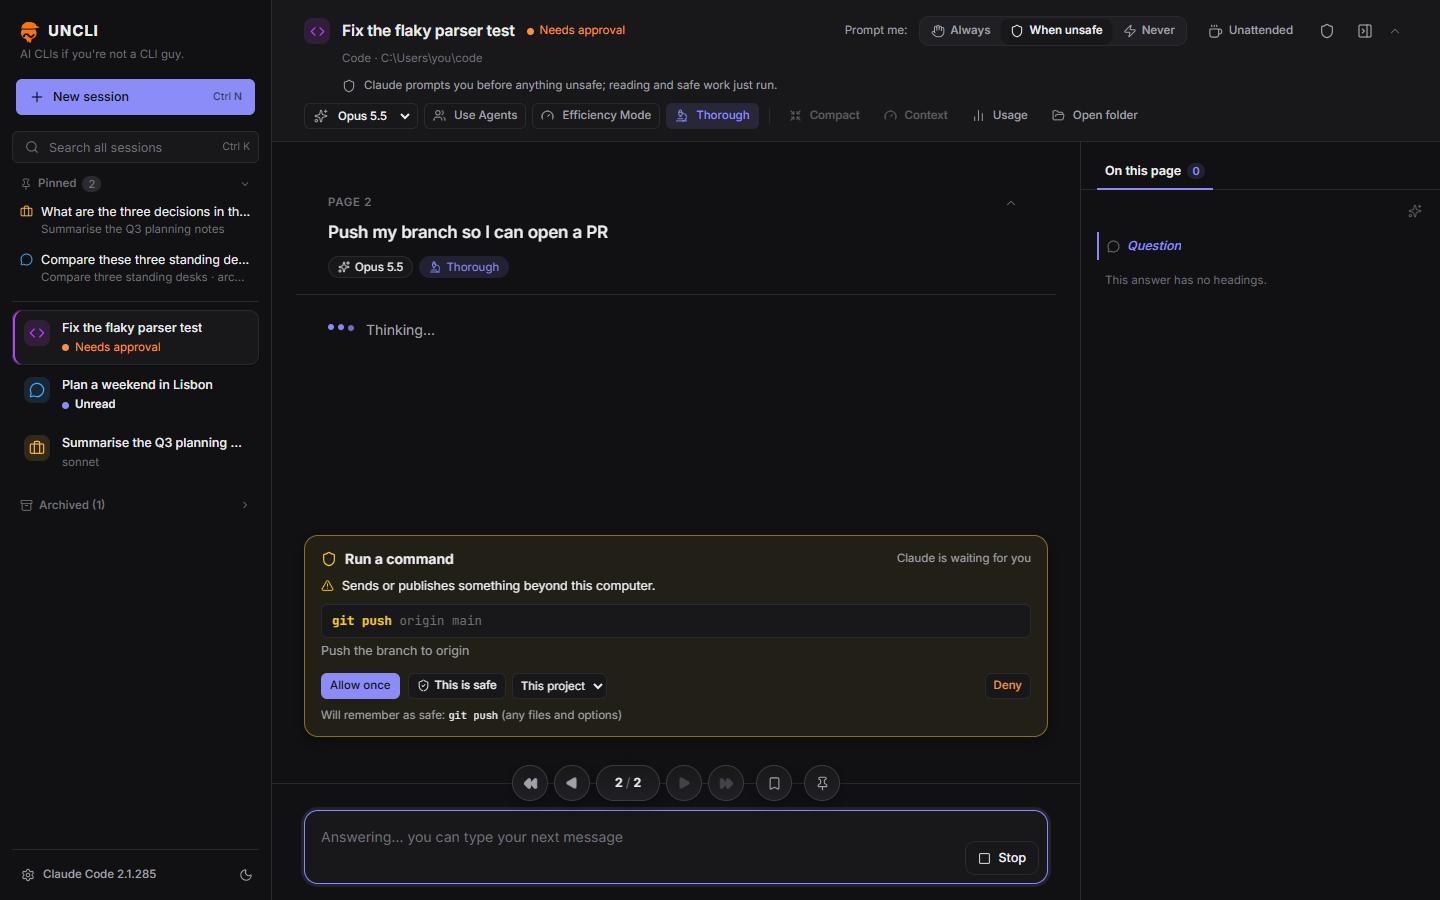
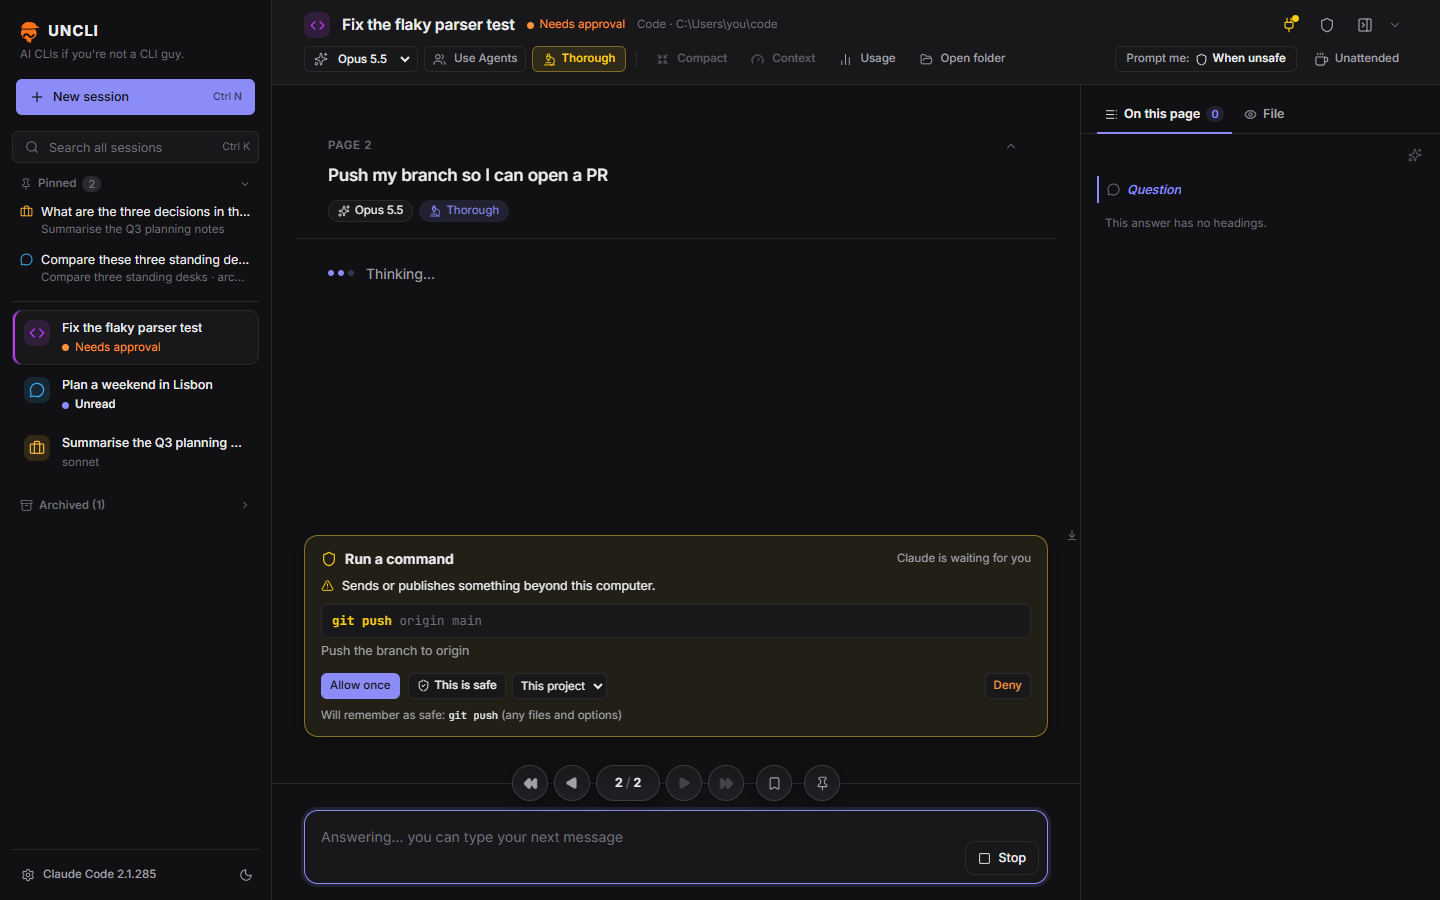
chore: release prep for 0.2.0-alpha: CHANGELOG section, website refreshed (new screenshots of the current header, File tab and MCP sign-in shots, cards for watching a file, MCP sign-in and answering questions) / fix: quitting UNCLI stops quick tasks in flight (safety judgements, summaries) instead o

diff --git a/website/index.html b/website/index.html
@@ -84,6 +84,18 @@
       <symbol id="i-bookmark" viewBox="0 0 24 24">
         <path d="M6.5 3.5h11v17L12 16.5l-5.5 4Z" />
       </symbol>
+      <symbol id="i-eye" viewBox="0 0 24 24">
+        <path d="M2.5 12S6 5.5 12 5.5 21.5 12 21.5 12 18 18.5 12 18.5 2.5 12 2.5 12Z" />
+        <circle cx="12" cy="12" r="3" />
+      </symbol>
+      <symbol id="i-key" viewBox="0 0 24 24">
+        <circle cx="8" cy="15" r="4" />
+        <path d="m11 12 8.5-8.5M16 7l2.5 2.5M14 9l2 2" />
+      </symbol>
+      <symbol id="i-slash" viewBox="0 0 24 24">
+        <rect x="3.5" y="4" width="17" height="16" rx="2" />
+        <path d="m10 16 4-8" />
+      </symbol>
       <symbol id="i-arrow" viewBox="0 0 24 24">
         <path d="M4 12h16m-6-6 6 6-6 6" />
       </symbol>
@@ -151,7 +163,7 @@
         <div class="shot-glow"></div>
         <figure class="shot shot-hero">
           <img src="images/shot-session.png"
-            alt="A Code session in UNCLI: the question as the page title, the answer with a code block, the model and modifiers in the toolbar, and the other sessions on the left."
+            alt="A Code session in UNCLI: the question as the page title, the answer with a code block, the model, answer length and prompt level in the toolbar, a TODO file watched live on the right, and the other sessions on the left."
             width="1440" height="900" loading="eager" decoding="async" />
         </figure>
       </div>
@@ -258,8 +270,8 @@
             <use href="#i-sliders" />
           </svg>
           <h3>Switch with a click</h3>
-          <p>Change model mid-conversation, turn on Efficiency Mode or Thorough, compact the context. No slash
-            commands to remember.</p>
+          <p>Change model mid-conversation, make answers Efficient or Thorough, compact the context. One click
+            each, coloured by what it costs.</p>
         </article>
         <article class="card reveal">
           <svg class="ico">
@@ -276,6 +288,30 @@
           <h3>Bring your old chats</h3>
           <p>Import a conversation you started in the terminal and carry on in UNCLI. Ctrl+Shift+P finds anything
             else; ? lists every shortcut.</p>
+        </article>
+        <article class="card reveal">
+          <svg class="ico">
+            <use href="#i-eye" />
+          </svg>
+          <h3>Watch a file</h3>
+          <p>Keep a file from the session's folder open beside the answer, say the TODO the agent is working
+            through, and watch it update as it changes. Type "todo" and the latest one is on top.</p>
+        </article>
+        <article class="card reveal">
+          <svg class="ico">
+            <use href="#i-key" />
+          </svg>
+          <h3>Sign in to your tools</h3>
+          <p>An MCP server that needs signing in says so. One click opens its sign-in in your browser, and its
+            tools arrive without a restart, in your other sessions too. Chats can use them as well.</p>
+        </article>
+        <article class="card reveal">
+          <svg class="ico">
+            <use href="#i-slash" />
+          </svg>
+          <h3>Questions get answers</h3>
+          <p>Type / for the CLI's commands. When the agent asks you something or shows a plan, you answer on a card,
+            with its options, your own words, or a note on what to change.</p>
         </article>
       </div>
     </section>
@@ -363,6 +399,18 @@
             alt="An approval card for git push in a Code session, with Allow once, This is safe and Deny." width="1440"
             height="900" loading="lazy" decoding="async" />
           <figcaption>An approval, mid-answer. The session in the sidebar says it needs you.</figcaption>
+        </figure>
+        <figure class="shot reveal">
+          <img src="images/shot-file.png"
+            alt="The File tab beside the answer, showing TODO.md with its checkboxes, and the file finder open with a search for todo."
+            width="1440" height="900" loading="lazy" decoding="async" />
+          <figcaption>Watching TODO.md beside the answer. Type part of a name: the latest changed comes first.</figcaption>
+        </figure>
+        <figure class="shot reveal">
+          <img src="images/shot-mcp.png"
+            alt="MCP servers that need signing in, listed under the header with Sign in buttons, and the servers list open with each one's status."
+            width="1440" height="900" loading="lazy" decoding="async" />
+          <figcaption>MCP servers that need you, and every server's status, a click from signed in.</figcaption>
         </figure>
         <figure class="shot reveal">
           <img src="images/shot-usage.png"

diff --git a/app/internal/bridge/bridge.go b/app/internal/bridge/bridge.go
@@ -5,7 +5,11 @@ package bridge
 
 import (
 	"context"
+	"crypto/sha256"
+	"encoding/hex"
 	"io/fs"
+	"os"
+	"path/filepath"
 	"strings"
 	"sync"
 	"time"
@@ -94,7 +98,7 @@ func Run(assets fs.FS) error {
 		AssetServer:      &assetserver.Options{Assets: assets},
 		BackgroundColour: &options.RGBA{R: 250, G: 250, B: 249, A: 255},
 		SingleInstanceLock: &options.SingleInstanceLock{
-			UniqueId: "app.uncli.desktop",
+			UniqueId: instanceID(os.Getenv("UNCLI_DATA_DIR")),
 			OnSecondInstanceLaunch: func(options.SecondInstanceData) {
 				if a.ctx != nil {
 					raise(a.ctx)
@@ -527,4 +531,16 @@ func (a *App) OpenURL(url string) {
 	if strings.HasPrefix(url, "https://") || strings.HasPrefix(url, "http://") {
 		wruntime.BrowserOpenURL(a.ctx, url)
 	}
+}
+
+// instanceID is the single-instance lock's id: one UNCLI per data folder.
+// A copy run on a data folder of its own (UNCLI_DATA_DIR: tests, wails
+// dev) gets its own lock, so it starts alongside the user's app instead of
+// handing over to it and quitting.
+func instanceID(dataDir string) string {
+	if dataDir == "" {
+		return "app.uncli.desktop"
+	}
+	sum := sha256.Sum256([]byte(strings.ToLower(filepath.Clean(dataDir))))
+	return "app.uncli.desktop." + hex.EncodeToString(sum[:6])
 }

diff --git a/app/internal/app/service.go b/app/internal/app/service.go
@@ -83,6 +83,11 @@ func DefaultPaths() (Paths, error) {
 }
 
 type Service struct {
+	// life ends when the service closes: work it started on its own (quick
+	// tasks: safety judgements, summaries) stops with it, not after.
+	life    context.Context
+	endLife context.CancelFunc
+
 	Paths     Paths
 	Store     *store.Store
 	Profiles  *profile.Set
@@ -133,6 +138,7 @@ func New(paths Paths, emit Emitter) (*Service, error) {
 	}
 	inst := claude.NewInstaller(filepath.Join(paths.Cache, "cli", "claude"))
 	s := &Service{Paths: paths, Store: db, Profiles: set, Installer: inst, Adapter: claude.New(inst).WithSkills(filepath.Join(paths.Cache, "skills", "claude")), emit: emit}
+	s.life, s.endLife = context.WithCancel(context.Background())
 	agyInst := antigravity.NewInstaller(filepath.Join(paths.Cache, "cli", "antigravity"))
 	agy := antigravity.New(agyInst, filepath.Join(paths.Config, "agy"), hookCommand())
 	s.clis = []*cliProvider{
@@ -177,6 +183,7 @@ func New(paths Paths, emit Emitter) (*Service, error) {
 }
 
 func (s *Service) Close() {
+	s.endLife()
 	s.CancelSignIn()
 	s.signInMu.Lock()
 	for id := range s.devices {

diff --git a/app/internal/bridge/instance_test.go b/app/internal/bridge/instance_test.go
@@ -1,0 +1,18 @@
+package bridge
+
+import "testing"
+
+// One UNCLI per data folder: the user's app keeps the plain id, and a copy
+// on a folder of its own gets an id of its own, the same for the same folder.
+func TestInstanceID(t *testing.T) {
+	if got := instanceID(""); got != "app.uncli.desktop" {
+		t.Errorf("default = %q", got)
+	}
+	a, b := instanceID(`C:\Temp\uncli-e2e\data`), instanceID(`c:\temp\uncli-e2e\data\`)
+	if a == "app.uncli.desktop" || a != b {
+		t.Errorf("a data folder: %q, %q", a, b)
+	}
+	if a == instanceID(`C:\Temp\other`) {
+		t.Error("two folders share an id")
+	}
+}

diff --git a/app/internal/app/tasks.go b/app/internal/app/tasks.go
@@ -196,6 +196,11 @@ func (s *Service) RunTextTask(ctx context.Context, t core.TextTask) (core.TextRe
 	t.Model = ref.Model
 	ctx, cancel := context.WithTimeout(ctx, 3*time.Minute)
 	defer cancel()
+	// It stops when UNCLI closes, too, whoever asked for it.
+	if s.life != nil {
+		stop := context.AfterFunc(s.life, cancel)
+		defer stop()
+	}
 	// An empty folder of its own: from any other the CLI would read that
 	// folder's CLAUDE.md and memory into the task.
 	dir := filepath.Join(s.Paths.Cache, "quick-tasks")

diff --git a/CHANGELOG.md b/CHANGELOG.md
@@ -4,6 +4,68 @@ What changed in each release of UNCLI, newest first. The release workflow
 publishes a version's section as its release notes, so each heading is
 `## <version>` exactly as tagged, without the v.
 
+## 0.2.0-alpha
+
+Signing in to MCP servers without leaving UNCLI, a live view of any file in
+the session folder, slash commands, and answers to the agent's questions.
+
+### Sessions
+
+- **Watch a file.** The side panel's File tab (F) shows a file from the
+  session's folder and updates as it changes: Markdown rendered, anything
+  else as code. Find one by any part of its name, latest changed first
+  ("todo" puts the newest TODO file on top); star the ones you come back
+  to. Each page's changed files have a Watch button.
+- **Slash commands.** Type / for a menu of the CLI's commands, Tab or Enter
+  to complete; the command palette has them too. Commands that could switch
+  prompting off are never offered or sent.
+- **Questions and plans.** When the agent asks you something, answer on its
+  card: its options, several picks, or your own words. Approve a plan, or
+  keep planning with a note on what to change.
+- **Efficient / Normal / Thorough** and **Prompt me** are one button each,
+  which cycles on a click (Shift+click goes back), coloured by what it costs
+  or risks. The status line and warnings sit in a strip under the header.
+- Markdown in answers, artifacts and the File tab renders HTML (collapsible
+  sections, key caps, images), cleaned of anything that could run, and
+  task lists as checkboxes (decision 0019).
+- Pages, watched files and artifacts remember where you were scrolled, also
+  across restarts; a toggle under the scrollbar follows the end of an answer
+  as it's written. What you type is kept per session through a restart,
+  which reopens the session you had open.
+
+### MCP servers and sign-in
+
+- **Sign in to MCP servers from UNCLI.** A server that needs signing in says
+  so; Sign in opens its page in your browser and its tools arrive without a
+  restart, in your other sessions too. A plug button in the header lists
+  every server, to sign in, reconnect or sign out; claude.ai connectors are
+  signed in on claude.ai, then reconnected (decision 0020).
+- **Chat can use your MCP servers, connectors and skills** while staying
+  isolated from your CLI settings, chosen per chat (decisions 0015, 0016).
+- Each session waits up to 15 s for its MCP servers to connect before the
+  first message, so that message has all their tools.
+- A turn whose sign-in failed or expired offers **Sign in again** and Send
+  again, without restarting the app.
+
+### Settings and containers
+
+- **Conversation cache** (Settings → AI Providers): how long a session's
+  conversation stays cached after its last message, with what each choice
+  costs.
+- Containers can share your secrets folder read-only at `~/.secrets` and
+  mount folders of their own; read-only mounts really are read-only
+  (decision 0017).
+
+### Fixes
+
+- Sending while offline fails at once with "not connected to the internet",
+  instead of thinking for a long time and then blaming the sign-in.
+- Clicking a notification, or launching UNCLI again, brings the window to the
+  front without un-maximizing it.
+- A background sub-agent's tool request is shown, not refused.
+- Quitting UNCLI stops quick tasks in flight (safety judgements, page
+  summaries) instead of leaving them running for a while after.
+
 ## 0.1.0-alpha
 
 The first public alpha. UNCLI runs AI coding CLIs in a desktop app, so you can
